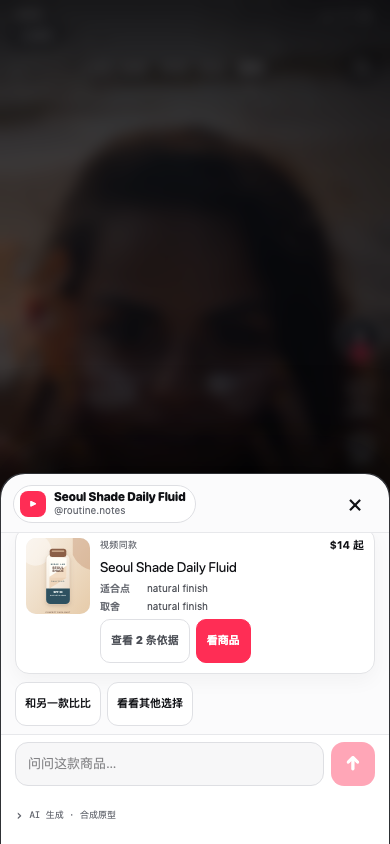
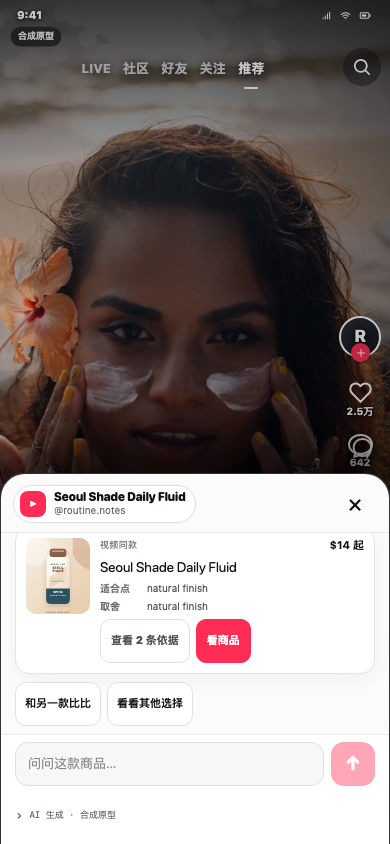
fix: preserve video focus in lightweight guide

diff --git a/apps/web/e2e/chat-first.spec.ts b/apps/web/e2e/chat-first.spec.ts
@@ -154,6 +154,42 @@ async function expectNoHorizontalOverflow(page: Page) {
   expect(metrics.body).toBeLessThanOrEqual(metrics.viewport);
 }
 
+function cssColorChannels(value: string) {
+  const channels = value.match(/[\d.]+/g)?.map(Number) ?? [];
+  if (channels.length < 3) {
+    throw new Error(`Expected an rgb/rgba color, received ${value}`);
+  }
+  return {
+    red: channels[0],
+    green: channels[1],
+    blue: channels[2],
+    alpha: channels[3] ?? 1,
+  };
+}
+
+function relativeLuminance(value: string) {
+  const { red, green, blue } = cssColorChannels(value);
+  const linearize = (channel: number) => {
+    const normalized = channel / 255;
+    return normalized <= 0.04045
+      ? normalized / 12.92
+      : ((normalized + 0.055) / 1.055) ** 2.4;
+  };
+  return (
+    0.2126 * linearize(red) +
+    0.7152 * linearize(green) +
+    0.0722 * linearize(blue)
+  );
+}
+
+function contrastRatio(first: string, second: string) {
+  const firstLuminance = relativeLuminance(first);
+  const secondLuminance = relativeLuminance(second);
+  const lighter = Math.max(firstLuminance, secondLuminance);
+  const darker = Math.min(firstLuminance, secondLuminance);
+  return (lighter + 0.05) / (darker + 0.05);
+}
+
 async function expectInsideViewport(locator: Locator) {
   await expect(locator).toBeVisible();
   await expect
@@ -247,6 +283,25 @@ test.describe("chat-first mobile journeys", () => {
     await expect(guide.locator(".guideChatDisclosure")).toHaveCount(1);
     const sheet = await expectInsideViewport(guide);
     expect(sheet.y).toBeGreaterThan(0);
+    await expect(page.locator(".feedVideo").first()).toBeVisible();
+  });
+
+  test("light scrim keeps the source video visually legible behind the compact guide", async ({
+    page,
+  }) => {
+    await openGuide(page);
+    const scrim = await page.locator(".guideBackdrop").evaluate((node) => {
+      const style = getComputedStyle(node);
+      return {
+        backgroundColor: style.backgroundColor,
+        backdropFilter: style.backdropFilter,
+      };
+    });
+
+    expect(cssColorChannels(scrim.backgroundColor).alpha).toBeLessThanOrEqual(
+      0.3,
+    );
+    expect(scrim.backdropFilter).toBe("none");
     await expect(page.locator(".feedVideo").first()).toBeVisible();
   });
 
@@ -510,6 +565,24 @@ test("desktop interview mode keeps the live phone path primary", async ({
   expect(sheet!.x).toBeGreaterThanOrEqual(phone!.x);
   expect(sheet!.x + sheet!.width).toBeLessThanOrEqual(phone!.x + phone!.width);
   expect(panelBox!.x).toBeGreaterThan(phone!.x + phone!.width);
+  expect(panelBox!.width).toBeLessThanOrEqual(phone!.width);
+  const hierarchy = await panel.evaluate((node) => {
+    const panelStyle = getComputedStyle(node);
+    const title = node.querySelector("h1");
+    const currentStep = node.querySelector(".interviewCurrentStep");
+    if (!title || !currentStep) {
+      throw new Error("Desktop explanation hierarchy is incomplete");
+    }
+    return {
+      panelBackground: panelStyle.backgroundColor,
+      titleFontSize: Number.parseFloat(getComputedStyle(title).fontSize),
+      currentStepBackground: getComputedStyle(currentStep).backgroundColor,
+    };
+  });
+  expect(hierarchy.titleFontSize).toBeLessThanOrEqual(24);
+  expect(
+    contrastRatio(hierarchy.panelBackground, hierarchy.currentStepBackground),
+  ).toBeLessThanOrEqual(1.5);
   await expect(panel.getByTestId("current-demo-step")).toHaveText(
     "轻量商品对话",
   );

diff --git a/apps/web/src/app/globals.css b/apps/web/src/app/globals.css
@@ -3003,7 +3003,7 @@ svg[data-demo-icon] {
   width: 100%;
   min-height: 100dvh;
   display: grid;
-  grid-template-columns: var(--demo-phone-width) minmax(360px, 440px);
+  grid-template-columns: var(--demo-phone-width) minmax(320px, 360px);
   grid-template-rows: var(--demo-phone-height);
   place-content: center;
   align-items: stretch;
@@ -3056,6 +3056,8 @@ svg[data-demo-icon] {
   align-items: flex-end;
   overflow: hidden;
   border-radius: 42px;
+  background: #0506083d;
+  backdrop-filter: none;
   transform: none;
 }
 
@@ -3065,7 +3067,7 @@ svg[data-demo-icon] {
   max-height: var(--demo-phone-height);
   align-self: center;
   overflow: auto;
-  padding: 38px 38px 30px;
+  padding: 30px 28px 24px;
   color: #202126;
   border: 1px solid #d6d3cd;
   border-radius: 30px;
@@ -3087,7 +3089,7 @@ svg[data-demo-icon] {
 .interviewPanel h1 {
   margin: 11px 0 12px;
   color: #111216;
-  font-size: clamp(1.8rem, 2.5vw, 2.6rem);
+  font-size: 1.5rem;
   font-weight: 850;
   letter-spacing: -0.055em;
   line-height: 1.05;
@@ -3103,16 +3105,17 @@ svg[data-demo-icon] {
 .interviewCurrentStep {
   display: grid;
   gap: 7px;
-  margin: 28px 0 20px;
-  padding: 18px 20px;
-  color: #fff;
+  margin: 22px 0 18px;
+  padding: 14px 16px;
+  color: #303238;
+  border: 1px solid #dedbd5;
   border-left: 4px solid var(--demo-cyan);
   border-radius: 8px 18px 18px 8px;
-  background: #17191e;
+  background: #f1f0ec;
 }
 
 .interviewCurrentStep > span {
-  color: #a8abb2;
+  color: #74767c;
 }
 
 .interviewCurrentStep strong {

diff --git a/apps/web/e2e/tiktok-demo.spec.ts b/apps/web/e2e/tiktok-demo.spec.ts
@@ -84,11 +84,19 @@ async function openGuide(page: Page) {
   const clarification = (await (await clarificationResponse).json()) as {
     guide_view_kind: string;
     conversation_revision: number;
+    allowed_actions: string[];
   };
   expect(clarification.guide_view_kind).toBe("WAITING_CLARIFICATION");
   expect(clarification.conversation_revision).toBe(
     opening.conversation_revision + 1,
   );
+  expect(clarification.allowed_actions).toEqual([
+    "SEND_MESSAGE",
+    "ANSWER_CLARIFICATION",
+    "SKIP_CLARIFICATION",
+    "UPDATE_CONSTRAINTS",
+    "RETURN_TO_FEED",
+  ]);
   await expect(
     guide.getByText("主要是日常通勤，还是户外出汗或玩水？"),
   ).toBeVisible();
@@ -275,7 +283,9 @@ test.describe("required redesigned journeys", () => {
     await normalFeed.scrollIntoViewIfNeeded();
     await expect(normalFeed).toBeInViewport();
     await expect(normalFeed.getByRole("group", { name: "可购物商品" })).toHaveCount(0);
-    await expect(normalFeed.getByRole("button", { name: /查看商品|问 AI/ })).toHaveCount(0);
+    await expect(
+      normalFeed.getByRole("button", { name: /查看商品|问问这款/ }),
+    ).toHaveCount(0);
 
     if (process.env.CAPTURE_TIKTOK_REDESIGN_EVIDENCE === "1") {
       await stabilizeEvidenceFrame(page);
